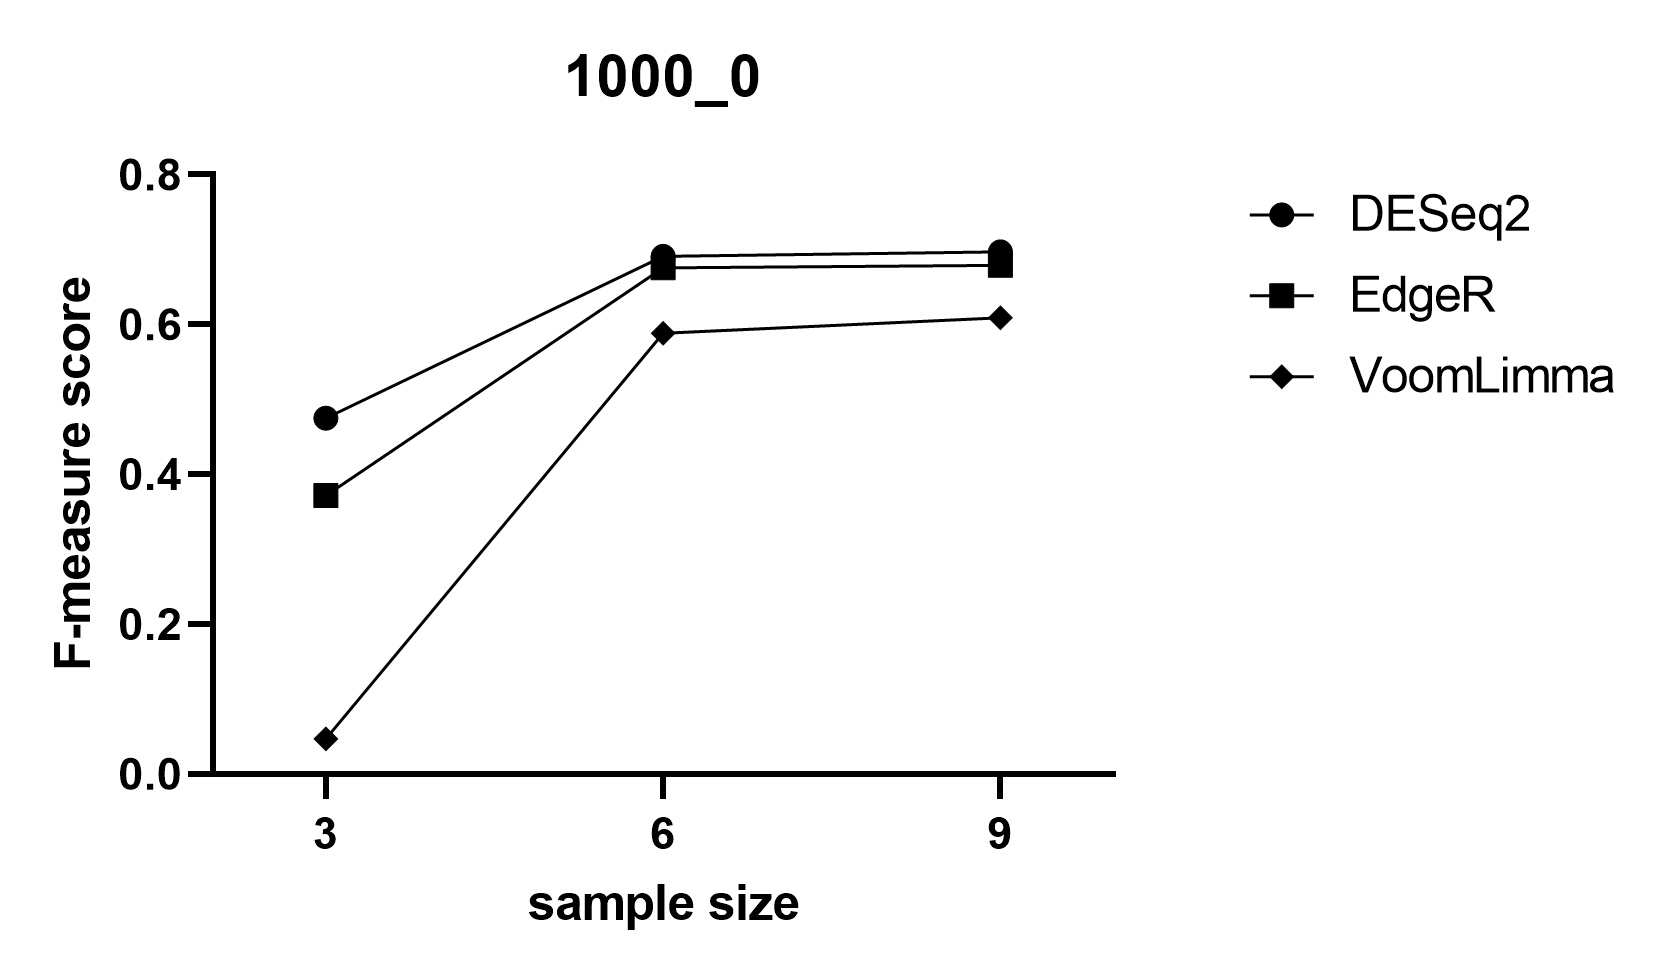
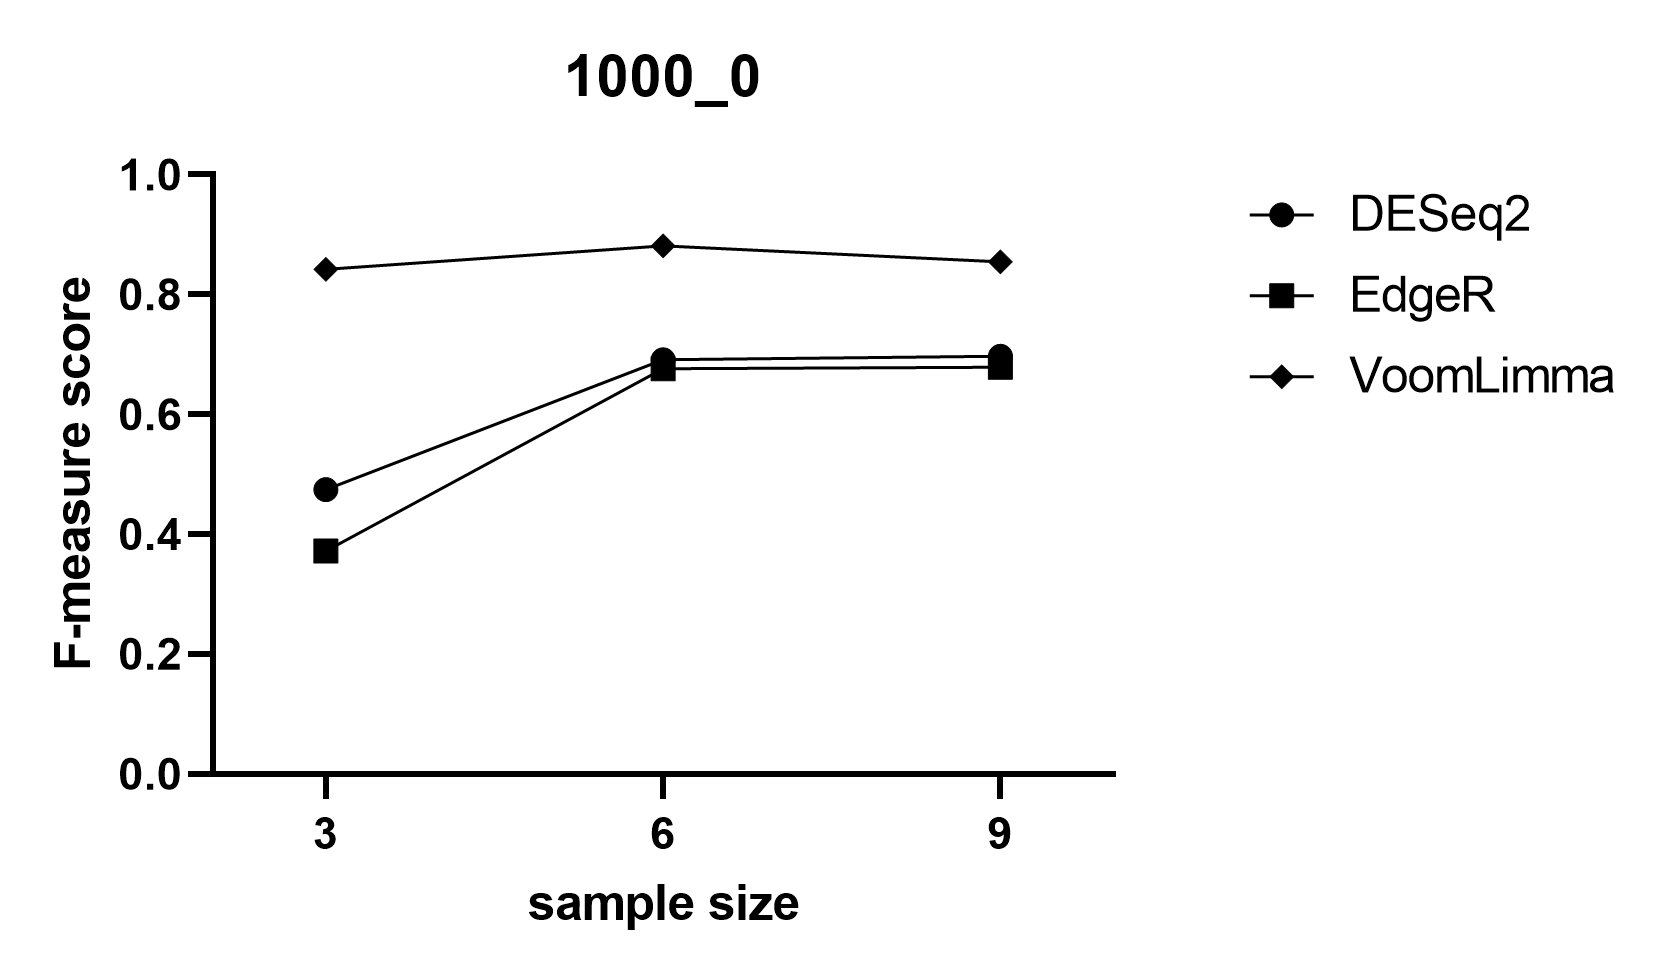
voomlimma correction

diff --git a/README.md b/README.md
@@ -1,9 +1,14 @@
 # IFN646_project
 ## Introduction
 
-The introduction of high-throughput RNA sequencing technologies has allowed researchers to understand the complex interactions between cells and the environment. Gene expression analysis reveals the reaction and capacity of cells to external stimuli and allows for an in depth mechanism of action studies. These experiments would involve the quantification of a large number of short reads which are then aligned to a genome to create a count matrix of each gene or feature. RNA differential expression tools apply computational models and allow the user to quickly find genes that are highly expressed or suppressed between two conditions.
+The introduction of high-throughput RNA sequencing technologies has allowed researchers to understand the complex interactions between cells and the environment. 
+Gene expression analysis reveals the capacity of cells to react to external stimuli and allows for an in depth mechanistic studies that can piece together the internal signaling cascades and interactions between molecules
+These experiments would involve the quantification of a large number of short reads which are then aligned to a genome to create a count matrix of each gene or feature. 
+RNA differential expression tools apply computational models and allow the user to quickly find genes that are highly expressed or suppressed between conditions.
 
-This project aims to compare tools that analyze differential gene expression using RNA sequencing count data. Synthetic count matrices were generated and provided for the comparison which included two conditional groups, condition 1 and condition 2, with varying sample sizes from 3 to 9 per group and approximately ten thousand genes. A separate meta file was also provided that indicated whether condition 2 genes were either upregulated, downregulated or differentially expressed compared to condition 1.
+This project aims to compare tools that analyze differential gene expression using RNA sequencing count data. 
+Synthetic count matrices were generated and provided for the comparison which included two conditional groups, condition 1 and condition 2, with varying sample sizes from 3 to 9 per group and approximately ten thousand genes. 
+A separate meta file was also provided that indicated whether condition 2 genes were either upregulated, downregulated or differentially expressed compared to condition 1.
 
 Discuss tools
 -Normalisation
@@ -26,6 +31,7 @@ edgeR estimates the dispersion factor as a weighted combination of a gene-specif
 Alternatively, DESeq uses the mean expression of the gene and a second term that models the biological expression variability.
  
 Differential expression test
+
 EdgeR and DESeq use a variation of the fisher exact test adopted for negative binomial distribution to calculate significant changes in gene expression.
 Limma implements a t-statistic with a modified standard error and degrees of freedom to calculate the P value.
 
@@ -49,12 +55,11 @@ Precision-Recall F-measure score
 Figure 1. Precision-Recall F-measure scores generated from voomLimma, DESeq2 and EdgeR using synthetic count data. Each plot indicates the number of genes that are upregulated and downregulated in condition 2 compared to condition 1. Sample size varies from n = 3, 6 or 9. Each point represents a F-measure score that has been generated from adjusted p values from 
 either DESeq2 (circle), EdgeR (square) or VoomLimma (diamond).
 
-The F-measure score was increased in all scenarios when the sample size was increased. DESeq2 had an advantage over EdgeR in all scenarios. At sample size 6 and 9 the difference between DESeq2 and EdgeR were minimal. EdgeR second and VoomLimma ranked last and underperformed EdgeR, especially at the lowest sample size.
-
+The F-measure score in DESeq2 and edgeR was increased in all scenarios when the sample size was increased. VoomLimma had the best f-measure score in all scenarios except for 1 and performed better when all differentially expressed genes were upregulated as opposed to when a count matrix had a mixture of upregulated and downregulated genes. DESeq2 had an advantage over EdgeR in all scenarios, especially at the lowest sample size. Sample size did not appear to affect VoomLimma. At sample size 6 and 9 the difference between DESeq2 and EdgeR were minimal. 
 
 ## Discussion
 
-In this study, log fold change and adjust p values were used to calculate a precision-recall curve to yield F-measure scores which were used to measure the performance of RNA differential expression algorithms. DESeq2 was found to have the highest ranking F-measure score in all of the provided data sets followed by EdgeR and Voom-Limma.
+In this study, log fold change and adjust p values were used to calculate a precision-recall curve to yield F-measure scores which were used to measure the performance of RNA differential expression algorithms. VoomLimma was found to have the highest ranking F-measure score in most of the provided data sets followed by DESeq2 and EdgeR.
 
 A precision-recall curve is a plot of the recall on the x axis and precision on the y axis. Precision is referred to as the positive predictive value which describes how well a model is predicting a positive class. Precision is calculated by the true positive divided by the sum of the true positives and false positive (true positive / (true positive + false negative). Recall, which is known as sensitivity, is calculated by the true positive divided by the sum of the true positive and false negative (true positive / (true positive + false negative)). The F-measure score is the harmonic mean of the precision and recall metrics and is used for calculating the accuracy of a binary classification model from the precision-recall curve.
 
